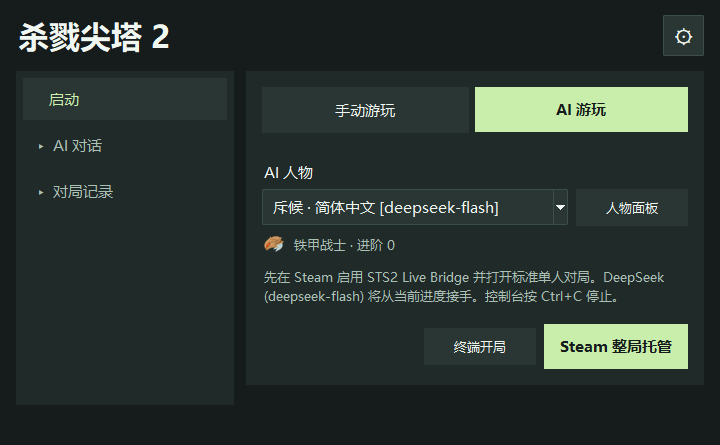
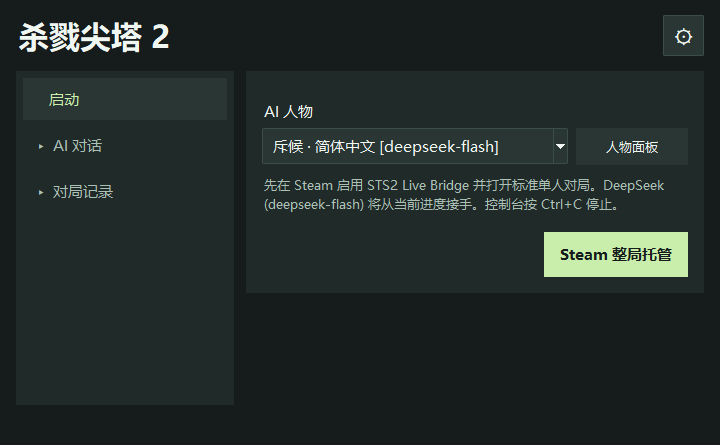
Offer a portable build focused on Steam full runs

diff --git a/scripts/build_windows_portable.py b/scripts/build_windows_portable.py
@@ -64,12 +64,13 @@ def package(args, scratch):
         raise ValueError("Choose the directory of an installed Windows copy of Slay the Spire 2.")
     compile_root, release = scratch / "build", scratch / PACKAGE_NAME
     shutil.copytree(ROOT / "src", compile_root / "src", ignore=shutil.ignore_patterns("bin", "obj"))
-    for name in GAME_DLLS:
-        copy_file(game / name, compile_root / "lib" / name)
-    patcher = compile_root / "patcher"
-    patcher_sources(patcher)
-    build(args.dotnet_sdk, patcher / "Patcher.csproj", "Release")
-    build(args.dotnet_sdk, compile_root / "src" / "Sts2Headless" / "Sts2Headless.csproj", "Debug")
+    if not args.steam_only:
+        for name in GAME_DLLS:
+            copy_file(game / name, compile_root / "lib" / name)
+        patcher = compile_root / "patcher"
+        patcher_sources(patcher)
+        build(args.dotnet_sdk, patcher / "Patcher.csproj", "Release")
+        build(args.dotnet_sdk, compile_root / "src" / "Sts2Headless" / "Sts2Headless.csproj", "Debug")
     bridge = compile_root / "src" / "Sts2LiveBridge"
     build(args.dotnet_sdk, bridge / "Sts2LiveBridge.csproj", "Release", f"-p:Sts2GameDir={game.parent.resolve()}")
 
@@ -83,14 +84,15 @@ def package(args, scratch):
             copy_file(ROOT / screenshot, release / screenshot)
     launcher = release / "Start STS2.cmd"
     launcher.write_text(launcher.read_text(encoding="ascii"), encoding="ascii", newline="\r\n")
-    for name in ENGINE_FILES:
-        copy_file(compile_root / ENGINE_OUTPUT / name, release / ENGINE_OUTPUT / name)
-    patcher_runtime = release / "runtime" / "patcher"
-    for artifact in (patcher / "bin" / "Release" / "net9.0").iterdir():
-        if artifact.suffix == ".dll" or artifact.name.endswith((".deps.json", ".runtimeconfig.json")):
-            copy_file(artifact, patcher_runtime / artifact.name)
-    copy_file(args.cecil_license, patcher_runtime / "Mono.Cecil.LICENSE.txt")
-    shutil.copytree(args.dotnet_dir, release / "runtime" / "dotnet")
+    if not args.steam_only:
+        for name in ENGINE_FILES:
+            copy_file(compile_root / ENGINE_OUTPUT / name, release / ENGINE_OUTPUT / name)
+        patcher_runtime = release / "runtime" / "patcher"
+        for artifact in (patcher / "bin" / "Release" / "net9.0").iterdir():
+            if artifact.suffix == ".dll" or artifact.name.endswith((".deps.json", ".runtimeconfig.json")):
+                copy_file(artifact, patcher_runtime / artifact.name)
+        copy_file(args.cecil_license, patcher_runtime / "Mono.Cecil.LICENSE.txt")
+        shutil.copytree(args.dotnet_dir, release / "runtime" / "dotnet")
     python = release / "runtime" / "python"
     for component in args.python_dir:
         shutil.copytree(component, python, dirs_exist_ok=True,
@@ -117,13 +119,16 @@ def main():
     parser = argparse.ArgumentParser(description=__doc__)
     parser.add_argument("--python-dir", type=Path, action="append", required=True,
                         help="official Python runtime directory or expanded MSI component (repeat for each)")
-    parser.add_argument("--dotnet-dir", type=Path, required=True, help="expanded Windows x64 .NET 9 runtime")
+    parser.add_argument("--dotnet-dir", type=Path, help="expanded Windows x64 .NET 9 runtime for terminal play")
+    parser.add_argument("--steam-only", action="store_true", help="Package the launcher and Steam bridge without the terminal engine.")
     parser.add_argument("--dotnet-sdk", default="dotnet", help="build-time .NET SDK executable")
     parser.add_argument("--game-dir", type=Path, required=True)
-    parser.add_argument("--cecil-license", type=Path, required=True, help="license file for Mono.Cecil 0.11.6")
+    parser.add_argument("--cecil-license", type=Path, help="license file for Mono.Cecil 0.11.6")
     parser.add_argument("--pillow-wheel", type=Path, required=True, help="official Pillow wheel matching the Python runtime")
     parser.add_argument("--output", type=Path, required=True)
     args = parser.parse_args()
+    if not args.steam_only and (args.dotnet_dir is None or args.cecil_license is None):
+        parser.error("--dotnet-dir and --cecil-license are required when including the terminal engine.")
     with TemporaryDirectory(prefix="sts2-portable-") as scratch:
         package(args, Path(scratch))
 

diff --git a/docs/desktop-launcher.md b/docs/desktop-launcher.md
@@ -2,7 +2,7 @@
 
 [中文说明](#中文) · [English README](../README.md)
 
-Start with the [Windows portable ZIP](../README.md#download-and-play). Extract the whole folder, double-click `Start STS2.cmd`, and start a manual run to confirm the launcher can find your Steam installation. On first play, the launcher prepares the game dependencies and English and Chinese game text inside the extracted folder. If it cannot locate the game, choose its installation folder. Adapter compatibility can vary by game version. Tested builds are listed in the [release notes](https://github.com/fallingstars123/sts2-cli/releases).
+Extract the [Windows portable ZIP](../README.md#download-and-play), double-click `Start STS2.cmd`, and install the included bridge for Steam Full Run. The [Steam setup guide](steam-mod.md) covers installation, startup, and stopping. The terminal controls appear on installations that include the terminal engine.
 
 The Fool is selectable for game builds that include that character. Mega Crit introduced the character in the Steam `public-beta` branch in v0.113.0. [Official beta notes](https://store.steampowered.com/news/app/2868840/view/708914333639245837)
 
@@ -26,7 +26,7 @@ The launcher sends current game state to the selected provider when requesting a
 
 [简体中文 README](../README.zh-CN.md)
 
-下载并完整解压 [Windows 便携版 ZIP](../README.zh-CN.md#下载与启动)，然后双击 `Start STS2.cmd`。可以先手动开一局，确认启动器能找到已安装的 Steam 游戏。首次开局会在解压目录内准备游戏依赖和中英文游戏文本。如果没有自动找到游戏，选择安装目录即可。适配情况因游戏版本而异，已测试的构建见 [发布说明](https://github.com/fallingstars123/sts2-cli/releases)。
+完整解压 [Windows 便携版 ZIP](../README.zh-CN.md#下载与启动)，双击 `Start STS2.cmd`。先按 [Steam 桥接指南](steam-mod.md#简体中文) 安装包内附带的桥接，再开始整局托管。终端入口会在含终端引擎的安装里显示。
 
 启动器可为包含愚者的游戏版本选择该角色。愚者由 Steam `public-beta` 的 v0.113.0 首次加入。[官方测试分支公告](https://store.steampowered.com/news/app/2868840/view/708914333639245837)
 

diff --git a/README.md b/README.md
@@ -6,13 +6,13 @@ A Windows desktop launcher for [sts2-cli](https://github.com/wuhao21/sts2-cli). 
 
 ## Download and play
 
-**[Download the Windows x64 portable ZIP](https://github.com/fallingstars123/sts2-cli/releases/latest/download/sts2-cli-windows-x64.zip)**
+**[Download the Windows x64 Steam Full Run ZIP](https://github.com/fallingstars123/sts2-cli/releases/latest/download/sts2-cli-windows-x64.zip)**
 
 1. Install **Slay the Spire 2** through Steam and download the ZIP.
 2. Extract the entire ZIP into a writable folder and double-click `Start STS2.cmd`.
-3. For manual play, choose **Start run**. In **AI play**, choose a persona and select **Steam Full Run** or **Play in terminal**. On first terminal play, the launcher locates your Steam game automatically.
+3. Copy the included Sts2LiveBridge folder into the game's mods directory, restart the game, and enable the bridge. Open a single-player run, select a persona, then click **Steam Full Run**.
 
-The ZIP includes Python and .NET. With the Steam game installed, manual play, saves, maps, and analysis work offline. For AI play, save your provider key in **API settings** under the gear menu and select a model in **Persona panel**. AI play, model refresh, and installing a missing AI client require an internet connection.
+The ZIP includes Python and the Steam bridge. Save your provider key in **API settings** in the gear menu and choose a model in **Persona panel**. AI play, model refresh, and the first installation of a provider client require internet access. For offline terminal play, see the [terminal package and supported game version](https://github.com/fallingstars123/sts2-cli/releases/tag/windows-v0.1.4).
 
 ### Steam Full Run
 

diff --git a/README.zh-CN.md b/README.zh-CN.md
@@ -6,13 +6,13 @@
 
 ## 下载与启动
 
-**[下载 Windows x64 便携版 ZIP](https://github.com/fallingstars123/sts2-cli/releases/latest/download/sts2-cli-windows-x64.zip)**
+**[下载 Windows x64 Steam 整局托管 ZIP](https://github.com/fallingstars123/sts2-cli/releases/latest/download/sts2-cli-windows-x64.zip)**
 
 1. 通过 Steam 安装《杀戮尖塔 2》，然后下载上面的 ZIP。
 2. 将 ZIP 完整解压到一个可写目录，再双击里面的 `Start STS2.cmd`。
-3. 手动游玩点 **开始对局**。AI 游玩先选人物，再点 **Steam 整局托管** 或 **终端开局**。首次通过终端开局会自动查找 Steam 游戏。
+3. 把包里的 Sts2LiveBridge 文件夹复制到游戏的 mods 目录，重启游戏并启用桥接。进入单人对局后，在启动器里选人物并点击 **Steam 整局托管**。
 
-ZIP 已包含 Python 和 .NET 运行环境。安装 Steam 游戏后，手动游玩、读档、地图和分析都可离线使用。AI 游玩、手动刷新模型和安装缺失的 API 客户端时需要联网。
+ZIP 已包含 Python 和 Steam 桥接。在齿轮的 **API 设置** 保存服务商密钥，再到 **人物面板** 选择模型。AI 游玩、刷新模型和首次安装 API 客户端需要联网。离线终端玩法见[终端版及其支持的游戏版本](https://github.com/fallingstars123/sts2-cli/releases/tag/windows-v0.1.4)。
 
 ### Steam 整局托管
 
